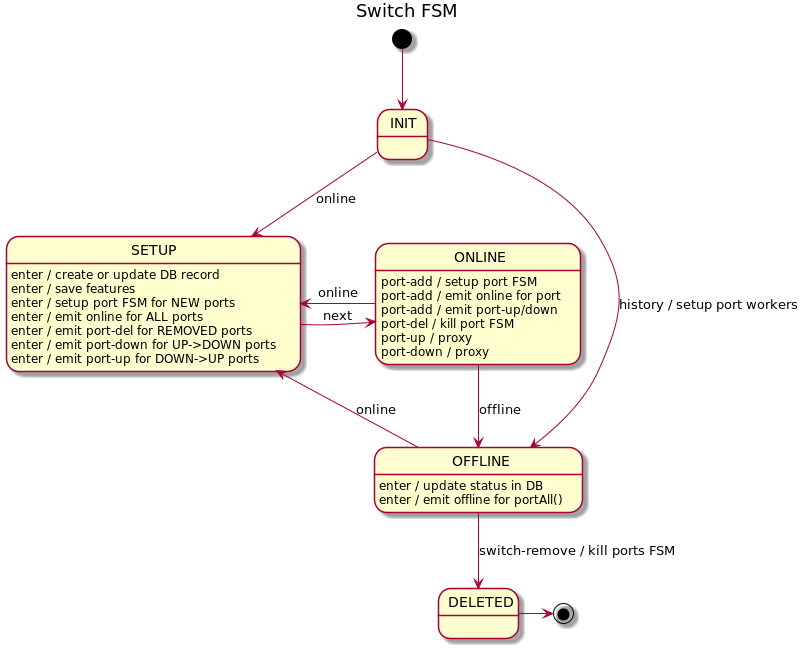
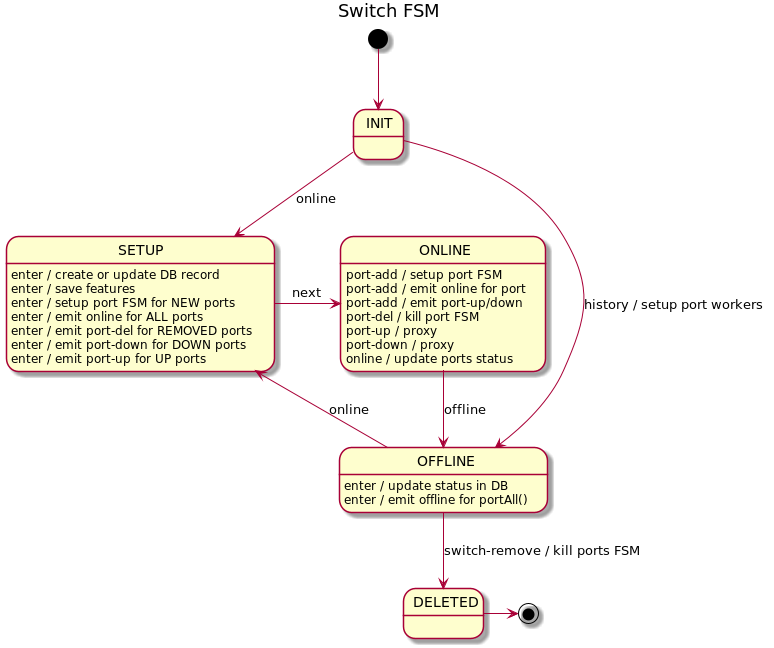
More gentle handling of online-to-online transition into SwitchFsm
Avoid emmiting extra "opearational" and "UP/DOWN" event into SwitchFsm
on "online" event (produced dugin periodic network dumps).

diff --git a/services/wfm/src/test/java/org/openkilda/wfm/topology/network/service/NetworkSwitchServiceTest.java b/services/wfm/src/test/java/org/openkilda/wfm/topology/network/service/NetworkSwitchServiceTest.java
@@ -56,9 +56,12 @@ import org.mockito.stubbing.Answer;
 import java.net.Inet4Address;
 import java.net.InetSocketAddress;
 import java.net.UnknownHostException;
+import java.util.ArrayList;
 import java.util.Collections;
+import java.util.Iterator;
 import java.util.List;
 import java.util.Optional;
+import java.util.Set;
 
 @RunWith(MockitoJUnitRunner.class)
 public class NetworkSwitchServiceTest {
@@ -327,7 +330,6 @@ public class NetworkSwitchServiceTest {
 
     }
 
-
     @Test
     public void switchFromOnlineToOfflineToOnline() {
 
@@ -389,6 +391,111 @@ public class NetworkSwitchServiceTest {
                                            LinkStatus.of(ports2.get(0).getState()));
     }
 
+    @Test
+    public void switchFromOnlineToOnline() {
+        List<SpeakerSwitchPortView> ports = ImmutableList.of(
+                new SpeakerSwitchPortView(1, SpeakerSwitchPortView.State.UP),
+                new SpeakerSwitchPortView(1 + BFD_LOGICAL_PORT_OFFSET, SpeakerSwitchPortView.State.UP),
+                new SpeakerSwitchPortView(2, SpeakerSwitchPortView.State.DOWN),
+                new SpeakerSwitchPortView(2 + BFD_LOGICAL_PORT_OFFSET, SpeakerSwitchPortView.State.DOWN),
+
+                new SpeakerSwitchPortView(3, SpeakerSwitchPortView.State.UP),
+                new SpeakerSwitchPortView(3 + BFD_LOGICAL_PORT_OFFSET, SpeakerSwitchPortView.State.UP),
+                new SpeakerSwitchPortView(4, SpeakerSwitchPortView.State.DOWN),
+                new SpeakerSwitchPortView(4 + BFD_LOGICAL_PORT_OFFSET, SpeakerSwitchPortView.State.DOWN));
+
+        SpeakerSwitchView speakerSwitchView = getSpeakerSwitchView().toBuilder()
+                .ports(ports)
+                .build();
+
+        SwitchInfoData switchAddEvent = new SwitchInfoData(
+                alphaDatapath, SwitchChangeType.ACTIVATED,
+                alphaInetAddress.toString(), alphaInetAddress.toString(), alphaDescription,
+                speakerInetAddress.toString(),
+                false,
+                speakerSwitchView);
+
+        NetworkSwitchService service = new NetworkSwitchService(carrier, persistenceManager,
+                BFD_LOGICAL_PORT_OFFSET);
+
+        // initial switch ADD
+        service.switchEvent(switchAddEvent);
+
+        resetMocks();
+
+        // periodic network sync
+        Iterator<SpeakerSwitchPortView> iter = ports.iterator();
+        List<SpeakerSwitchPortView> ports2 = new ArrayList<>();
+        for (int idx = 0; idx < 4; idx++) {
+            ports2.add(makePortEntryWithOppositeState(iter.next()));
+        }
+        iter.forEachRemaining(ports2::add);
+
+        SpeakerSwitchView periodicSyncEvent = speakerSwitchView.toBuilder().ports(ports2).build();
+        service.switchBecomeManaged(periodicSyncEvent);
+
+        // only changed ports
+        verify(carrier).setPortLinkMode(Endpoint.of(alphaDatapath, 1), LinkStatus.DOWN);
+        verify(carrier).setBfdPortLinkMode(Endpoint.of(alphaDatapath, 1 + BFD_LOGICAL_PORT_OFFSET), LinkStatus.DOWN);
+        verify(carrier).setPortLinkMode(Endpoint.of(alphaDatapath, 2), LinkStatus.UP);
+        verify(carrier).setBfdPortLinkMode(Endpoint.of(alphaDatapath, 2 + BFD_LOGICAL_PORT_OFFSET), LinkStatus.UP);
+
+        verifyNoMoreInteractions(carrier);
+    }
+
+    @Test
+    public void switchFromOnlineToOnlineWithLostBfdFeature() {
+        NetworkSwitchService service = new NetworkSwitchService(carrier, persistenceManager,
+                BFD_LOGICAL_PORT_OFFSET);
+
+        List<SpeakerSwitchPortView> ports = doSpeakerOnline(service, Collections.singleton(Feature.BFD));
+        List<SpeakerSwitchPortView> ports2 = swapBfdPortsState(ports);
+
+        resetMocks();
+
+        service.switchBecomeManaged(getSpeakerSwitchView().toBuilder()
+                .features(Collections.emptySet())
+                .ports(ports2)
+                .build());
+
+        // System.out.println(mockingDetails(carrier).printInvocations());
+
+        verify(carrier).removeBfdPortHandler(Endpoint.of(alphaDatapath, 1 + BFD_LOGICAL_PORT_OFFSET));
+        verify(carrier).setupPortHandler(Endpoint.of(alphaDatapath, 1 + BFD_LOGICAL_PORT_OFFSET), null);
+        verify(carrier).setOnlineMode(Endpoint.of(alphaDatapath, 1 + BFD_LOGICAL_PORT_OFFSET), true);
+        verify(carrier).setPortLinkMode(Endpoint.of(alphaDatapath, 1 + BFD_LOGICAL_PORT_OFFSET), LinkStatus.DOWN);
+
+        verify(carrier).removeBfdPortHandler(Endpoint.of(alphaDatapath, 2 + BFD_LOGICAL_PORT_OFFSET));
+        verify(carrier).setupPortHandler(Endpoint.of(alphaDatapath, 2 + BFD_LOGICAL_PORT_OFFSET), null);
+        verify(carrier).setOnlineMode(Endpoint.of(alphaDatapath, 2 + BFD_LOGICAL_PORT_OFFSET), true);
+        verify(carrier).setPortLinkMode(Endpoint.of(alphaDatapath, 2 + BFD_LOGICAL_PORT_OFFSET), LinkStatus.UP);
+    }
+
+    @Test
+    public void switchFromOnlineToOnlineWithAcquireBfdFeature() {
+        NetworkSwitchService service = new NetworkSwitchService(carrier, persistenceManager,
+                BFD_LOGICAL_PORT_OFFSET);
+
+        List<SpeakerSwitchPortView> ports = doSpeakerOnline(service, Collections.emptySet());
+        List<SpeakerSwitchPortView> ports2 = swapBfdPortsState(ports);
+
+        resetMocks();
+
+        service.switchBecomeManaged(getSpeakerSwitchView().toBuilder()
+                .features(Collections.singleton(Feature.BFD))
+                .ports(ports2)
+                .build());
+
+        verify(carrier).removePortHandler(Endpoint.of(alphaDatapath, 1 + BFD_LOGICAL_PORT_OFFSET));
+        verify(carrier).setupBfdPortHandler(Endpoint.of(alphaDatapath, 1 + BFD_LOGICAL_PORT_OFFSET), 1);
+        verify(carrier).setBfdPortOnlineMode(Endpoint.of(alphaDatapath, 1 + BFD_LOGICAL_PORT_OFFSET), true);
+        verify(carrier).setBfdPortLinkMode(Endpoint.of(alphaDatapath, 1 + BFD_LOGICAL_PORT_OFFSET), LinkStatus.DOWN);
+
+        verify(carrier).removePortHandler(Endpoint.of(alphaDatapath, 2 + BFD_LOGICAL_PORT_OFFSET));
+        verify(carrier).setupBfdPortHandler(Endpoint.of(alphaDatapath, 2 + BFD_LOGICAL_PORT_OFFSET), 2);
+        verify(carrier).setBfdPortOnlineMode(Endpoint.of(alphaDatapath, 2 + BFD_LOGICAL_PORT_OFFSET), true);
+        verify(carrier).setBfdPortLinkMode(Endpoint.of(alphaDatapath, 2 + BFD_LOGICAL_PORT_OFFSET), LinkStatus.UP);
+    }
 
     @Test
     public void portAddEventOnOnlineSwitch() {
@@ -414,7 +521,6 @@ public class NetworkSwitchServiceTest {
         verify(carrier).setOnlineMode(Endpoint.of(alphaDatapath, 1), true);
         verify(carrier).setBfdPortOnlineMode(Endpoint.of(alphaDatapath, 1 + BFD_LOGICAL_PORT_OFFSET), true);
     }
-
 
     @Test
     public void portUpDownEventsOnOnlineSwitch() {
@@ -571,6 +677,25 @@ public class NetworkSwitchServiceTest {
                                         LinkStatus.of(ports.get(0).getState()));
     }
 
+    private List<SpeakerSwitchPortView> doSpeakerOnline(NetworkSwitchService service, Set<Feature> features) {
+        List<SpeakerSwitchPortView> ports = getSpeakerSwitchPortViews();
+        SpeakerSwitchView speakerSwitchView = getSpeakerSwitchView().toBuilder()
+                .features(features)
+                .ports(ports)
+                .build();
+
+        SwitchInfoData switchAddEvent = new SwitchInfoData(
+                alphaDatapath, SwitchChangeType.ACTIVATED,
+                alphaInetAddress.toString(), alphaInetAddress.toString(), alphaDescription,
+                speakerInetAddress.toString(),
+                false,
+                speakerSwitchView);
+
+        service.switchEvent(switchAddEvent);
+
+        return ports;
+    }
+
     private SpeakerSwitchView getSpeakerSwitchView() {
         return SpeakerSwitchView.builder()
                     .datapath(alphaDatapath)
@@ -596,5 +721,24 @@ public class NetworkSwitchServiceTest {
                 new SpeakerSwitchPortView(1 + BFD_LOGICAL_PORT_OFFSET, State.DOWN),
                 new SpeakerSwitchPortView(2, State.UP),
                 new SpeakerSwitchPortView(2 + BFD_LOGICAL_PORT_OFFSET, State.UP));
+    }
+
+    private List<SpeakerSwitchPortView> swapBfdPortsState(List<SpeakerSwitchPortView> ports) {
+        List<SpeakerSwitchPortView> result = new ArrayList<>();
+        for (SpeakerSwitchPortView entry : ports) {
+            SpeakerSwitchPortView replace = entry;
+            if (BFD_LOGICAL_PORT_OFFSET < entry.getNumber()) {
+                replace = makePortEntryWithOppositeState(entry);
+            }
+            result.add(replace);
+        }
+        return result;
+    }
+
+    private SpeakerSwitchPortView makePortEntryWithOppositeState(SpeakerSwitchPortView port) {
+        return SpeakerSwitchPortView.builder()
+                .number(port.getNumber())
+                .state(port.getState() == State.UP ? State.DOWN : State.UP)
+                .build();
     }
 }

diff --git a/services/wfm/src/main/java/org/openkilda/wfm/topology/network/controller/sw/SwitchFsm.java b/services/wfm/src/main/java/org/openkilda/wfm/topology/network/controller/sw/SwitchFsm.java
@@ -64,8 +64,6 @@ public final class SwitchFsm extends AbstractBaseFsm<SwitchFsm, SwitchFsmState, 
     private final Set<SpeakerSwitchView.Feature> features = new HashSet<>();
     private final Map<Integer, AbstractPort> portByNumber = new HashMap<>();
 
-    private boolean isOnlineToOnline = false;
-
     private static final StateMachineBuilder<SwitchFsm, SwitchFsmState, SwitchFsmEvent, SwitchFsmContext> builder;
 
     static {
@@ -88,8 +86,8 @@ public final class SwitchFsm extends AbstractBaseFsm<SwitchFsm, SwitchFsmState, 
                 .callMethod("setupEnter");
 
         // ONLINE
-        builder.transition().from(SwitchFsmState.ONLINE).to(SwitchFsmState.SETUP).on(SwitchFsmEvent.ONLINE)
-                .callMethod("markOnlineToOnlineTransition");
+        builder.internalTransition().within(SwitchFsmState.ONLINE).on(SwitchFsmEvent.ONLINE)
+                .callMethod("syncState");
         builder.transition().from(SwitchFsmState.ONLINE).to(SwitchFsmState.OFFLINE).on(SwitchFsmEvent.OFFLINE);
         builder.internalTransition().within(SwitchFsmState.ONLINE).on(SwitchFsmEvent.PORT_ADD)
                 .callMethod("handlePortAdd");
@@ -143,51 +141,14 @@ public final class SwitchFsm extends AbstractBaseFsm<SwitchFsm, SwitchFsmState, 
     }
 
     public void setupEnter(SwitchFsmState from, SwitchFsmState to, SwitchFsmEvent event, SwitchFsmContext context) {
-        if (!isOnlineToOnline) {
-            logWrapper.onSwitchUpdateStatus(switchId, SwitchFsmEvent.ONLINE.toString());
-        }
+        logWrapper.onSwitchAdd(switchId);
 
         transactionManager.doInTransaction(() -> persistSwitchData(context));
-
-        SpeakerSwitchView speakerData = context.getSpeakerData();
-        // set features for correct port (re)identification
-        updateFeatures(speakerData.getFeatures());
-
-        Set<Integer> removedPorts = new HashSet<>(portByNumber.keySet());
-        for (SpeakerSwitchPortView speakerPort : speakerData.getPorts()) {
-            AbstractPort actualPort = makePortRecord(speakerPort);
-            AbstractPort storedPort = portByNumber.get(speakerPort.getNumber());
-
-            if (storedPort == null) {
-                portAdd(actualPort, context);
-            } else if (!storedPort.isSameKind(actualPort)) {
-                // port kind have been changed, we must recreate port handler
-                portDel(storedPort, context);
-                portAdd(actualPort, context);
-            } else {
-                removedPorts.remove(speakerPort.getNumber());
-            }
-
-            if (!isOnlineToOnline) {
-                updateOnlineStatus(actualPort, context, true);
-            }
-            updatePortLinkMode(actualPort, context);
-        }
-
-        for (Integer portNumber : removedPorts) {
-            portDel(portByNumber.get(portNumber), context);
-        }
-
-        isOnlineToOnline = false;
+        updatePorts(context, true);
     }
 
     public void onlineEnter(SwitchFsmState from, SwitchFsmState to, SwitchFsmEvent event, SwitchFsmContext context) {
         initialSwitchSetup(context);
-    }
-
-    public void markOnlineToOnlineTransition(SwitchFsmState from, SwitchFsmState to, SwitchFsmEvent event,
-                                             SwitchFsmContext context) {
-        isOnlineToOnline = true;
     }
 
     public void offlineEnter(SwitchFsmState from, SwitchFsmState to, SwitchFsmEvent event,
@@ -198,6 +159,10 @@ public final class SwitchFsm extends AbstractBaseFsm<SwitchFsm, SwitchFsmState, 
         for (AbstractPort port : portByNumber.values()) {
             updateOnlineStatus(port, context, false);
         }
+    }
+
+    public void syncState(SwitchFsmState from, SwitchFsmState to, SwitchFsmEvent event, SwitchFsmContext context) {
+        updatePorts(context, false);
     }
 
     public void handlePortAdd(SwitchFsmState from, SwitchFsmState to, SwitchFsmEvent event,
@@ -264,6 +229,41 @@ public final class SwitchFsm extends AbstractBaseFsm<SwitchFsm, SwitchFsmState, 
 
     // -- private/service methods --
 
+    private void updatePorts(SwitchFsmContext context, boolean isForced) {
+        SpeakerSwitchView speakerData = context.getSpeakerData();
+        // set features for correct port (re)identification
+        updateFeatures(speakerData.getFeatures());
+
+        Set<Integer> removedPorts = new HashSet<>(portByNumber.keySet());
+        for (SpeakerSwitchPortView speakerPort : speakerData.getPorts()) {
+            AbstractPort actualPort = makePortRecord(speakerPort);
+            AbstractPort storedPort = portByNumber.get(speakerPort.getNumber());
+
+            boolean isNewOrRecreated = true;
+            if (storedPort == null) {
+                storedPort = portAdd(actualPort, context);
+            } else if (!storedPort.isSameKind(actualPort)) {
+                // port kind have been changed, we must recreate port handler
+                portDel(storedPort, context);
+                storedPort = portAdd(actualPort, context);
+            } else {
+                removedPorts.remove(speakerPort.getNumber());
+                isNewOrRecreated = false;
+            }
+
+            if (isForced || isNewOrRecreated) {
+                updateOnlineStatus(storedPort, context, true);
+                updatePortLinkMode(storedPort, actualPort.getLinkStatus(), context);
+            } else if (storedPort.getLinkStatus() != actualPort.getLinkStatus()) {
+                updatePortLinkMode(storedPort, actualPort.getLinkStatus(), context);
+            }
+        }
+
+        for (Integer portNumber : removedPorts) {
+            portDel(portByNumber.get(portNumber), context);
+        }
+    }
+
     private void updateFeatures(Set<SpeakerSwitchView.Feature> update) {
         if (!features.equals(update)) {
             log.info("Update features for {} - old:{} new:{}", switchId, features, update);
@@ -272,16 +272,23 @@ public final class SwitchFsm extends AbstractBaseFsm<SwitchFsm, SwitchFsmState, 
         }
     }
 
-    private void portAdd(AbstractPort port, SwitchFsmContext context) {
+    private AbstractPort portAdd(AbstractPort port, SwitchFsmContext context) {
         portByNumber.put(port.getPortNumber(), port);
         port.portAdd(context.getOutput());
         logWrapper.onPortAdd(switchId, port);
+
+        return port;
     }
 
     private void portDel(AbstractPort port, SwitchFsmContext context) {
         portByNumber.remove(port.getPortNumber());
         port.portDel(context.getOutput());
         logWrapper.onPortDelete(switchId, port);
+    }
+
+    private void updatePortLinkMode(AbstractPort port, LinkStatus status, SwitchFsmContext context) {
+        port.setLinkStatus(status);
+        updatePortLinkMode(port, context);
     }
 
     private void updatePortLinkMode(AbstractPort port, SwitchFsmContext context) {
